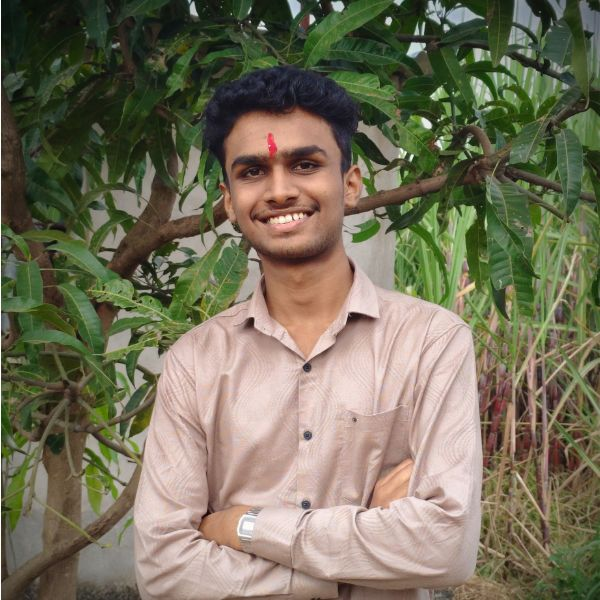
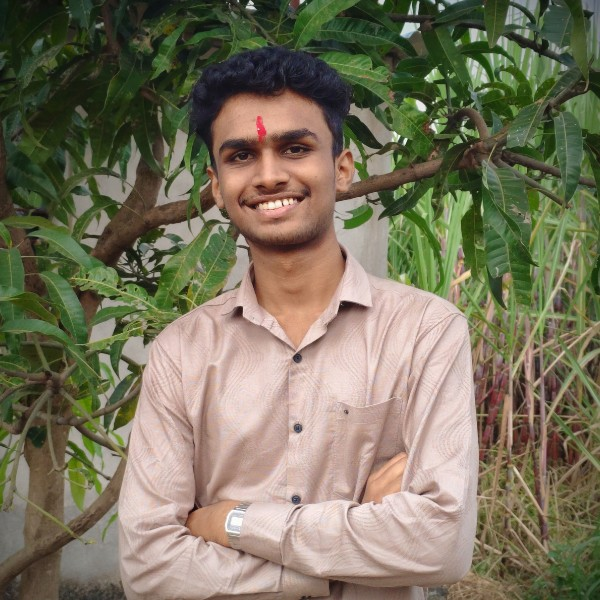
Updated 2026-27 team photos and member links

diff --git a/src/constants/team.js b/src/constants/team.js
@@ -110,9 +110,9 @@ const team = [
           {
             name: "Ankita Punjabi",
             designation: "SR Treasurer",
-            email: "questit@ves.ac.in",
+            email: "2024.ankita.punjabi@ves.ac.in",
             github: "https://github.com/QuestIT-Cell",
-            linkedin: "https://www.linkedin.com/company/questit-vesit",
+            linkedin: "https://www.linkedin.com/in/ankita-punjabi-4b80aa375",
             image: "/images/team2026/teMembers/AnkitaPunjabi.jpg",
           },
           {
@@ -137,7 +137,7 @@ const team = [
             email: "2024.atharva.waghmode@ves.ac.in",
             github: "https://github.com/wagha-builds",
             linkedin: "https://www.linkedin.com/in/atharva-waghmode-0a7573350",
-            image: "/images/team2026/teMembers/OmSawlani.jpg",
+            image: "/images/team2026/teMembers/AtharvaWaghmode.jpg",
           },
           {
             name: "Ayush Lokhande",
@@ -174,9 +174,9 @@ const team = [
           {
             name: "Krishna Gavali",
             designation: "SR Treasurer",
-            email: "questit@ves.ac.in",
-            github: "https://github.com/QuestIT-Cell",
-            linkedin: "https://www.linkedin.com/company/questit-vesit",
+            email: "2024.krishna.gavali@ves.ac.in",
+            github: "https://github.com/krishnagavali20",
+            linkedin: "https://www.linkedin.com/in/krishna-gavali-962a233a8",
             image: "/images/team2026/teMembers/KrishnaGavali.jpg",
           },
           {
@@ -285,7 +285,7 @@ const team = [
             name: "Anushka Chaurarsia",
             designation: "JR Content Officer",
             email: "2025.anushka.chaurasia@ves.ac.in",
-            github: "https://github.com/QuestIT-Cell",
+            github: "https://github.com/anushkachaurasia087-stack",
             linkedin: "https://www.linkedin.com/in/anushka-chaurasia-916801408",
             image: "/images/team2026/seMembers/AnushkaChaurasia.jpg",
           },
@@ -333,7 +333,7 @@ const team = [
             name: "Kanishka Lulla",
             designation: "JR Content Officer",
             email: "2025.kanishka.lulla@ves.ac.in",
-            github: "https://github.com/QuestIT-Cell",
+            github: "https://github.com/kanishkalulla",
             linkedin: "https://www.linkedin.com/in/kanishka-lulla-843364373",
             image: "/images/team2026/seMembers/KanishkaLulla.jpg",
           },
@@ -413,12 +413,12 @@ const team = [
             name: "Sarra Khadse",
             designation: "JR Techinical Officer",
             email: "2025.sarra.khadse@ves.ac.in",
-            github: "https://github.com/QuestIT-Cell",
-            linkedin: "https://www.linkedin.com/company/questit-vesit",
+            github: "https://github.com/sarrakhadse07",
+            linkedin: "https://www.linkedin.com/in/sarra-khadse-0b7719386",
             image: "/images/team2026/seMembers/SarraKhadse.jpg",
           },
           {
-            name: "Snehansu Deo",
+            name: "Snehanshu Deo",
             designation: "JR Content Officer",
             email: "2025.snehansu.deo@ves.ac.in",
             github: "https://github.com/snehanshuuu",
